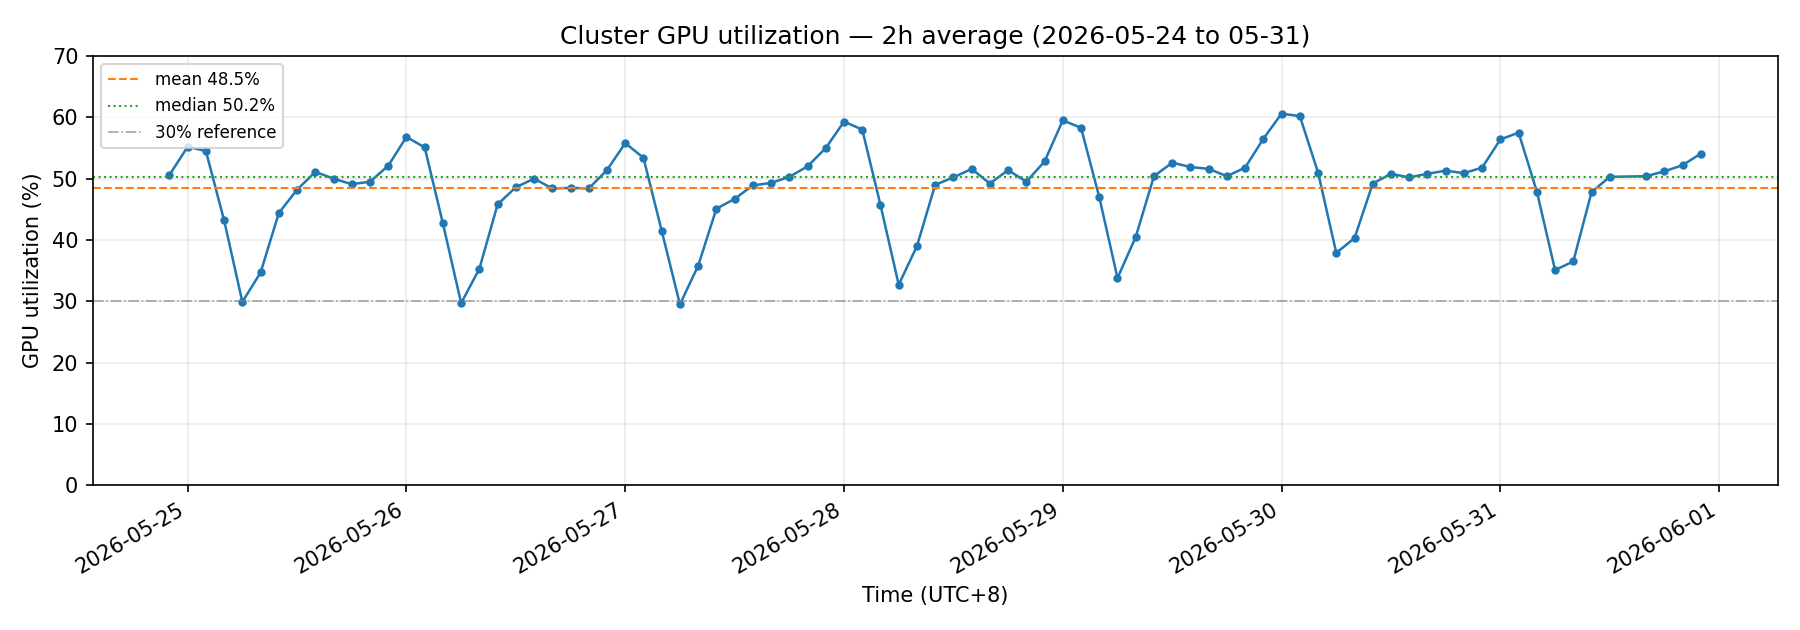
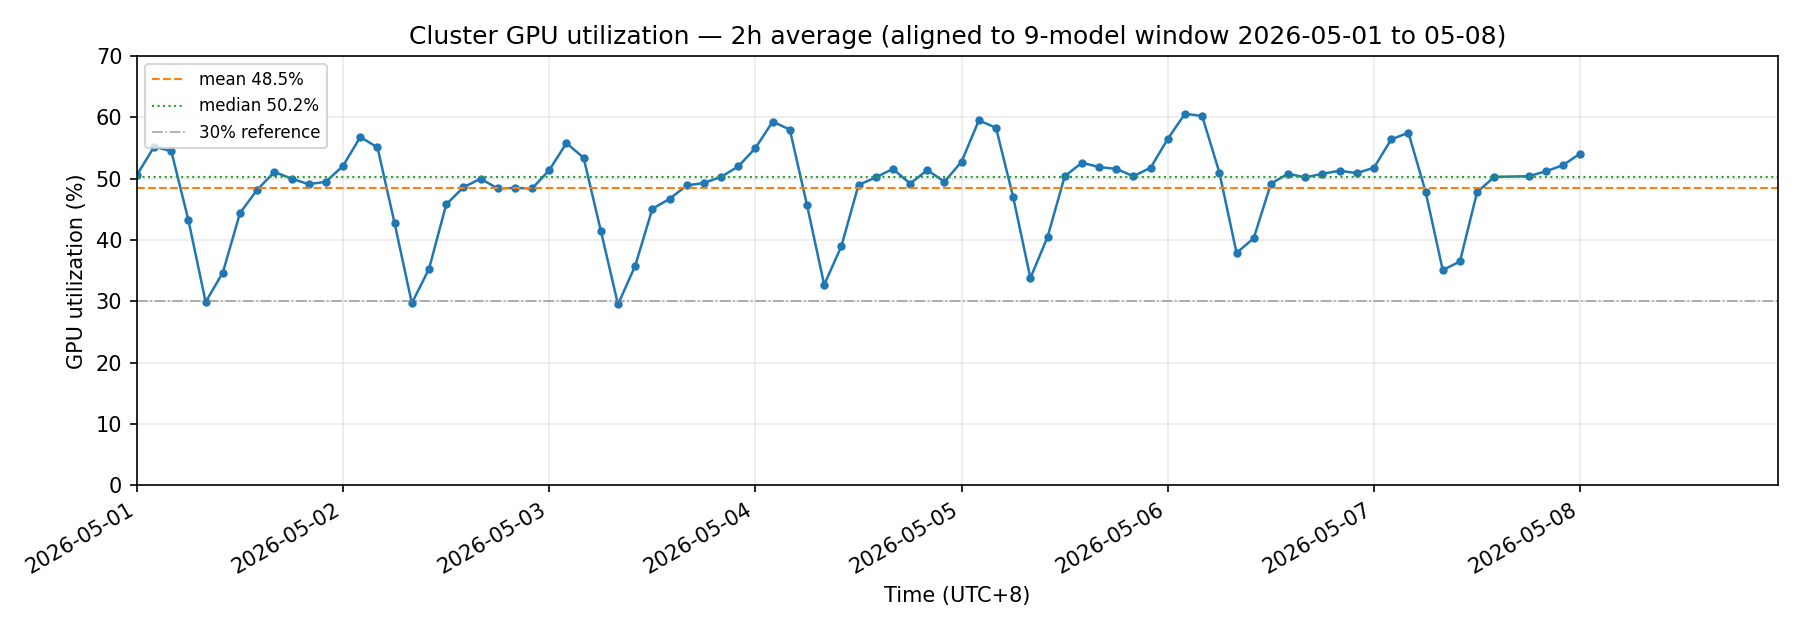
figures: align GPU util chart x-axis to 9-model sample window

diff --git a/research/demand_inference/scripts/plot_ch215_gpu_util.py b/research/demand_inference/scripts/plot_ch215_gpu_util.py
@@ -1,0 +1,60 @@
+#!/usr/bin/env python3
+"""Plot cluster GPU utilization for Notion §2.1.5."""
+
+from __future__ import annotations
+
+from pathlib import Path
+
+import matplotlib
+
+matplotlib.use("Agg")
+import matplotlib.pyplot as plt
+import pandas as pd
+
+ROOT = Path(__file__).resolve().parents[3]
+CSV = ROOT / "data/GPU活跃度及功率-总体平均-data-2026-05-31 22_25_18.csv"
+OUT = Path(__file__).resolve().parent / "outputs/ch2_215/figures/ch2_gpu_util.png"
+
+# Align x-axis to the nine-model QPS sample window (§2.1.3).
+QPS_SAMPLE_START = pd.Timestamp("2026-05-01 00:00:00")
+QPS_SAMPLE_END = pd.Timestamp("2026-05-08 22:58:00")
+
+
+def load_clean() -> pd.DataFrame:
+    df = pd.read_csv(CSV)
+    df.columns = ["Time", "gpu_util"]
+    df["Time"] = pd.to_datetime(df["Time"])
+    df["gpu_util"] = pd.to_numeric(df["gpu_util"], errors="coerce")
+    df = df[df["gpu_util"] <= 100].sort_values("Time")
+    offset = QPS_SAMPLE_START - df["Time"].iloc[0]
+    df["Time"] = df["Time"] + offset
+    return df[df["Time"] <= QPS_SAMPLE_END]
+
+
+def main() -> None:
+    df = load_clean()
+    mean_val = df["gpu_util"].mean()
+    median_val = df["gpu_util"].median()
+
+    fig, ax = plt.subplots(figsize=(12, 4.2))
+    ax.plot(df["Time"], df["gpu_util"], color="tab:blue", linewidth=1.2, marker="o", markersize=3)
+    ax.axhline(mean_val, color="tab:orange", ls="--", lw=1.0, label=f"mean {mean_val:.1f}%")
+    ax.axhline(median_val, color="tab:green", ls=":", lw=1.0, label=f"median {median_val:.1f}%")
+    ax.axhline(30, color="gray", ls="-.", lw=0.8, alpha=0.7, label="30% reference")
+    ax.set_xlabel("Time (UTC+8)")
+    ax.set_ylabel("GPU utilization (%)")
+    ax.set_title("Cluster GPU utilization — 2h average (aligned to 9-model window 2026-05-01 to 05-08)")
+    ax.set_xlim(QPS_SAMPLE_START, QPS_SAMPLE_END)
+    ax.set_ylim(0, 70)
+    ax.legend(loc="upper left", fontsize=8)
+    ax.grid(True, alpha=0.25)
+    fig.autofmt_xdate()
+    fig.tight_layout()
+    OUT.parent.mkdir(parents=True, exist_ok=True)
+    fig.savefig(OUT, dpi=150)
+    plt.close(fig)
+    print(f"Wrote {OUT}")
+
+
+if __name__ == "__main__":
+    main()